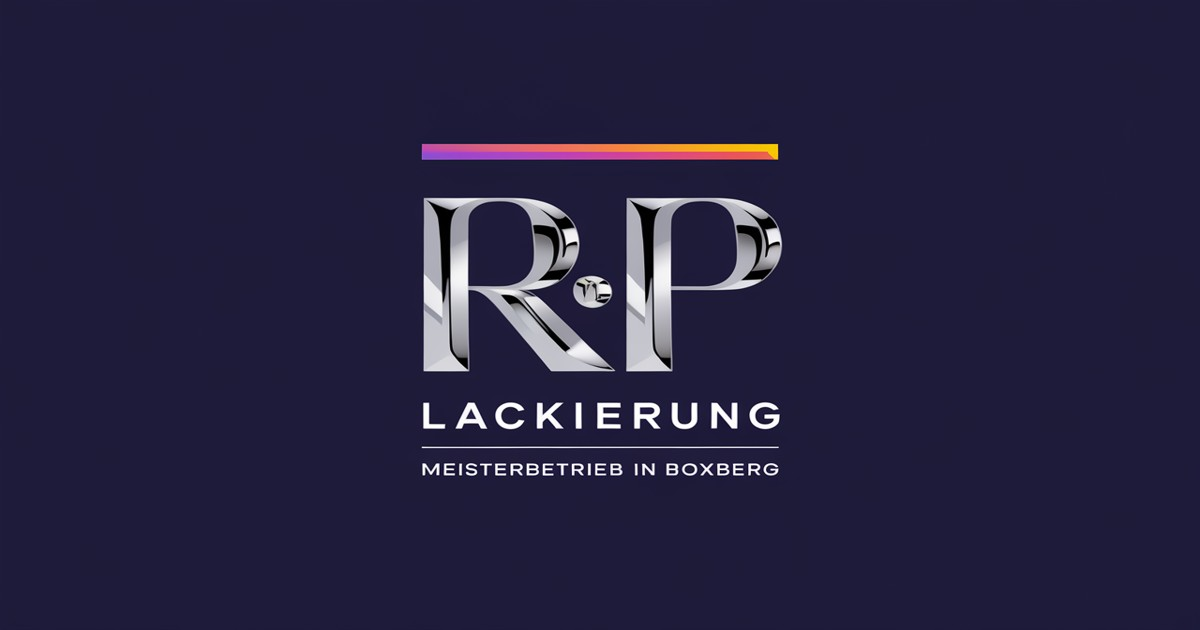
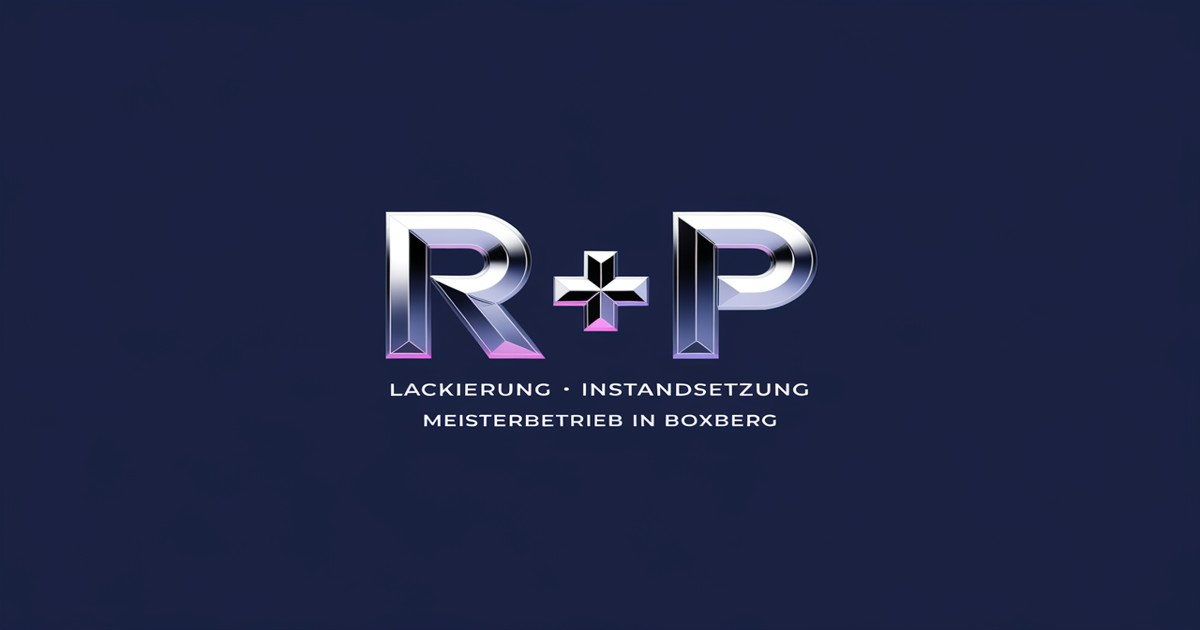
OG mit Instandsetzung, Mobile Hero, David-Float-Fix, CLAUDE.md
- OG-Image: LACKIERUNG · INSTANDSETZUNG (beides!)
- Mobile Hero-Bild: Portrait-Version für <900px
- Chef-Portrait: CSS-Klasse statt inline-style, responsive
- CLAUDE.md angelegt (Design, Backend, Regeln)
- Proposal: Dark Mode statt Dark+Light

Changed region(s): [[0.3083, 0.3016, 0.6783, 0.754], [0.3392, 0.2111, 0.6475, 0.2714]]

diff --git a/src/css/style.css b/src/css/style.css
@@ -401,6 +401,14 @@ a:active { color: var(--color-teal); }
    HERO
    ============================================ */
 
+/* Hero Banner — Desktop/Mobile Switch */
+.hero-mobile { display: none; }
+
+@media (max-width: 900px) {
+  .hero-desktop { display: none; }
+  .hero-mobile { display: block; }
+}
+
 /* Hero Banner Image */
 .hero-banner {
   position: relative;
@@ -1001,6 +1009,25 @@ a:active { color: var(--color-teal); }
   .page-hero-img {
     max-height: 280px;
     object-position: center 10%;
+  }
+}
+
+/* Chef Portrait */
+.chef-portrait {
+  float: right;
+  width: 280px;
+  margin: 0 0 1.5rem 2rem;
+  border-radius: var(--radius);
+  object-fit: cover;
+}
+
+@media (max-width: 600px) {
+  .chef-portrait {
+    float: none;
+    width: 100%;
+    max-width: 320px;
+    margin: 0 auto 1.5rem;
+    display: block;
   }
 }
 

diff --git a/src/proposal.html b/src/proposal.html
@@ -177,7 +177,7 @@ hr { border: none; height: 2px; background: linear-gradient(90deg, #6a4a90, #e88
   <strong>KI-Chat-Agent</strong> &mdash; Kunden stellen Fragen direkt auf der Seite<br>
   <strong>CMS</strong> &mdash; ihr k&ouml;nnt selbst News schreiben und Bilder tauschen<br>
   <strong>Bilder</strong> &mdash; KI-generiert als Platzhalter, werden ersetzt sobald ihr echte Fotos liefert<br>
-  <strong>Dark + Light Mode</strong><br>
+  <strong>Dark Mode</strong> &mdash; Premium-Design<br>
   <strong>Mobiloptimiert</strong><br>
   <strong>SEO</strong> &mdash; Google findet jede Seite
 </p>

diff --git a/src/wir-ueber-uns.md b/src/wir-ueber-uns.md
@@ -9,7 +9,7 @@ description: R+P Lackierung GmbH in Boxberg – Ihr Familienbetrieb für Lackier
 
 ## Ihr Lackier- und Karosseriebetrieb in Boxberg
 
-<img src="/images/chef-david.webp" alt="David — Geschäftsführer R+P Lackierung GmbH" width="1024" height="1024" style="float:right;width:280px;margin:0 0 1.5rem 2rem;border-radius:6px;">
+<img src="/images/chef-david.webp" alt="David — Geschäftsführer R+P Lackierung GmbH" width="1024" height="1024" class="chef-portrait">
 
 R+P Lackierung GmbH ist ein inhabergeführter Familienbetrieb in der Robert-Bosch-Straße 6/B in 97944 Boxberg. Seit über 20 Jahren stehen wir für solide Handwerksarbeit, faire Preise und persönliche Beratung. Bei uns sind Sie keine Nummer – wir nehmen uns Zeit für jedes Fahrzeug und jeden Auftrag.
 
